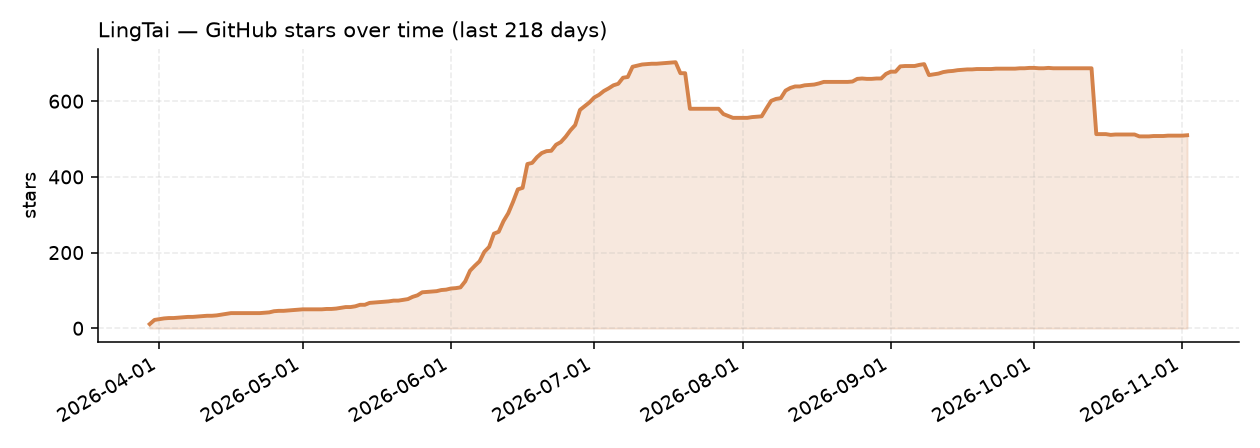
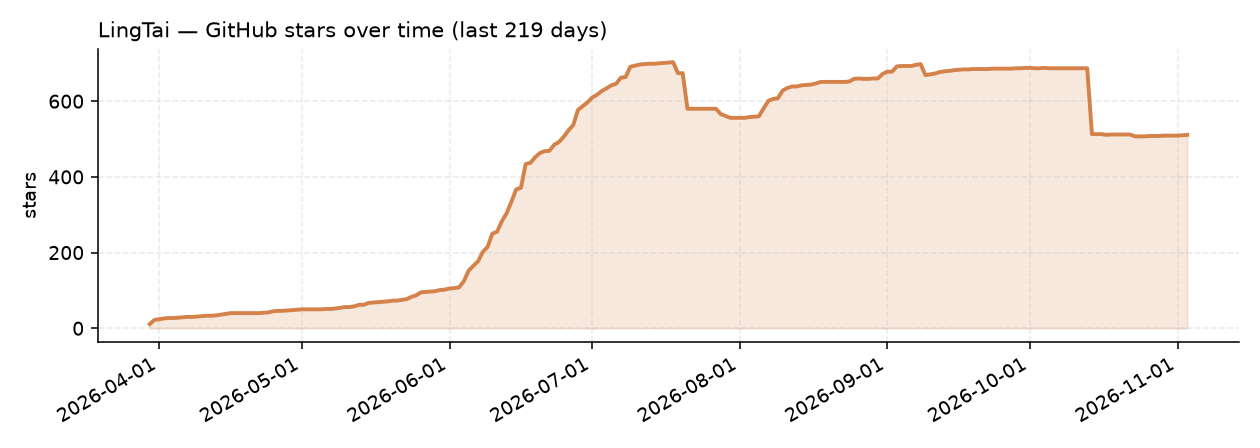
chore(stars): update daily star count

diff --git a/docs/stars/README.md b/docs/stars/README.md
@@ -1,7 +1,7 @@
 # LingTai star trend
 
-- Latest: **510** stars (2026-11-02)
-- Last 7 days: **+2**
-- Since tracking began (2026-03-30): **+499**
-- Sparkline (last 60 days): `▇▇▇▇█▆▇▇▇▇▇▇▇▇▇▇▇▇▇▇▇▇▇▇▇▇▇▇▇▇▇▇▇▇▇▇▇▇▇▇▁▁▁▁▁▁▁▁▁▁▁▁▁▁▁▁▁▁▁▁`
+- Latest: **511** stars (2026-11-03)
+- Last 7 days: **+3**
+- Since tracking began (2026-03-30): **+500**
+- Sparkline (last 60 days): `▇▇▇█▆▇▇▇▇▇▇▇▇▇▇▇▇▇▇▇▇▇▇▇▇▇▇▇▇▇▇▇▇▇▇▇▇▇▇▁▁▁▁▁▁▁▁▁▁▁▁▁▁▁▁▁▁▁▁▁`
 - Chart: `trend.png`
